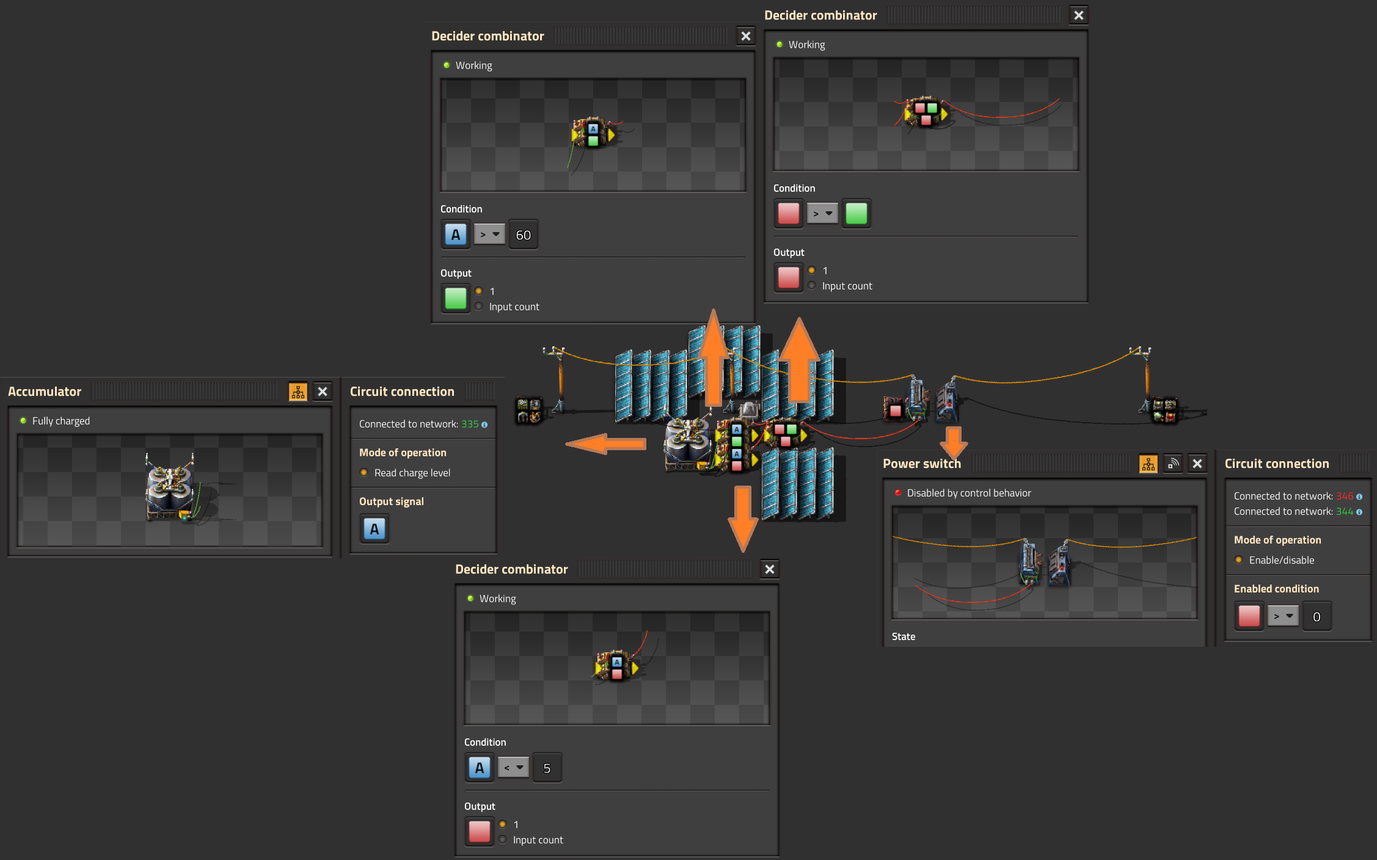
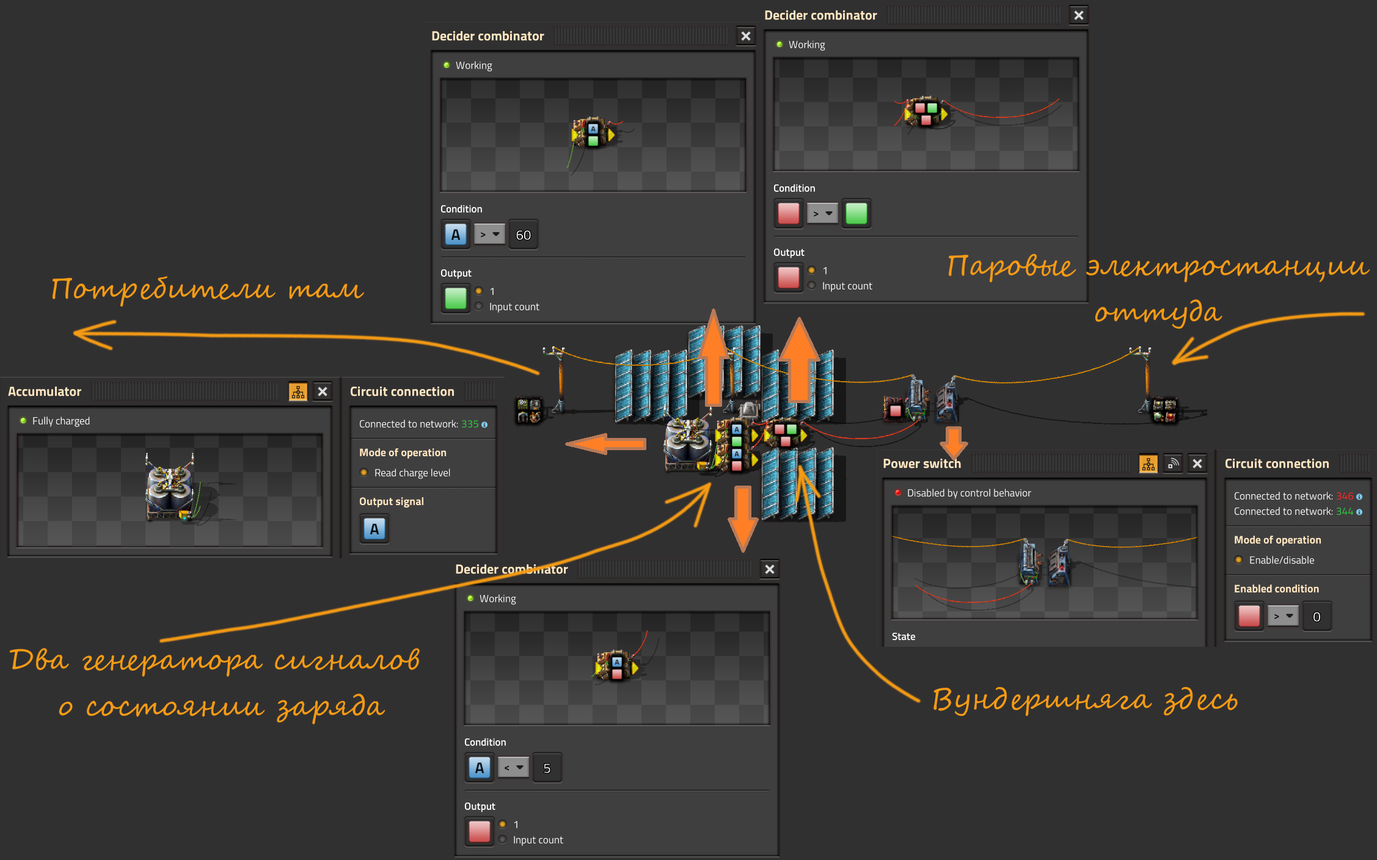
fixed article about backup

diff --git a/website/src/remark/remark-factorio-icons.ts b/website/src/remark/remark-factorio-icons.ts
@@ -164,7 +164,9 @@ const IconNames: string[] = [
   'Signal 6',
   'Signal 7',
   'Signal 8',
-  'Signal 9'
+  'Signal 9',
+  'Green wire',
+  'Red wire'
 ];
 
 interface Options {

diff --git a/docs/PowerProduction/BackupSteamPower.md b/docs/PowerProduction/BackupSteamPower.md
@@ -1,24 +1,24 @@
 # Переводим паровые и ядерные электростанции в резерв
 
-Паровая энергия, в начале игры, это наше всё. Вменяемые альтернативы появляются только тогда, когда удаётся накопить пару тыщ солнечных панелей и чуть меньше тыщ аккумуляторных блоков. До запуска первого спутника про солнечную энергетику можно вспоминать от случая к случаю не возлагая на неё больших надежд. Но даже если солнечных панелей и хватает чтобы полностью покрыть потребности в электричестве и даже зарядить аккумуляторные блоки, в ночное время всё равно запускается выработка энергии из пара. Почему?
+Паровая энергия, в начале игры, это наше всё. Вменяемые альтернативы появляются только тогда, когда удаётся накопить пару тыщ солнечных панелей и чуть меньше тыщ аккумуляторных блоков. До запуска [первого спутника](../HowToStartNewGame/README.md) про солнечную энергетику можно вспоминать от случая к случаю не возлагая на неё больших надежд. Но даже если солнечных панелей и хватает чтобы полностью покрыть потребности в электричестве и даже зарядить аккумуляторные блоки, в ночное время всё равно запускается выработка энергии из пара. Почему?
 
 :::info На самом деле
 Электроснабжение осуществляется на основании приоритетов, каждый источник энергии имеет свой приоритет. Высший приоритет имеют солнечные панели. Далее следуют паровые двигатели и паровые турбины. И на последнем месте аккумуляторные блоки. [Пруф](https://wiki.factorio.com/Electric_system).
 
-То есть, даже если ваши аккумуляторные блоки аж искрятся от переизбытка заряда, в ночное время электричество будет производиться из пара, на основании приоритетов. Sad but true.
+То есть, даже если ваши аккумуляторные блоки аж искрятся от переизбытка заряда, в ночное время электричество будет производиться из пара, на основании приоритетов. *Sad but true.*
 :::
 
-Получается, как не крути и как не выкручивайся, хоть всю планету застрой солнечными панелями и аккумуляторными блоками, по ночам, когда мирные жители засыпают, выходят они, которые пьют воду из труб, сжигают уголь прямо с конвейеров и загрязняют окружающую среду. Как быть?
+Получается, как не крути и как не выкручивайся, хоть всю планету застрой солнечными панелями и аккумуляторными блоками, по ночам, когда мирные жители засыпают, выходят они, бойлеры и паровые двигатели, которые пьют воду из труб, сжигают уголь прямо с конвейеров и загрязняют окружающую среду. Как быть?
 
 ## Простой костыль
 
 :::tip Идея
 Снести паровую электростанцию нафиг, чтобы не загрязняла природу своими выбросами по ночам.
 
-А если всё-таки сохранить на случай перебоев в работе солнечной электростанции? Можно соединить аккумуляторный блок красным или зелёным проводом с насосами подающими воду на бойлеры и включать насосы только если заряд на аккумуляторном блоке опускается меньше половины (как вариант).
+А если всё-таки сохранить на случай перебоев в работе солнечной электростанции? Можно соединить какой-нибудь аккумуляторный блок `Accumulator` красным `Red wire` или зелёным `Green wire` сигнальным кабелем с насосами `Offshore pump` подающими воду `Water` на бойлеры `Boiler` и включать насосы только если заряд на аккумуляторном блоке опускается меньше какого-то значения, например 50%.
 :::
 
-Реализация идеи с насосами, проста как всё в мире Factorio:
+Реализация идеи с насосами, проста как всё в мире *Factorio*:
 
 ![Backup steam power](../_images/PowerProduction/BackupSteamPower.03.png)
 
@@ -28,27 +28,37 @@
[1 lines of base64/hex data omitted]
 ```
 
-К сожалению, костыль так себе, хотя и подходит для паровых электростанций. При увеличении количества аккумуляторных блоков, нужно уменьшать параметр срабатывания (ручками, на каждом насосе). Также электростанция останавливается и запускается не сразу, нужно время на растопку и на выпаривание всей залитой уже воды. В общем, возни много. А для ядерных электростанций этот подход сравним появлению пятой ноги у тягловой кляче. Как же по-человечески перевести паровые и атомные электростанции в резерв?
+К сожалению, костыль так себе, хотя и подходит для паровых электростанций. При увеличении количества аккумуляторных блоков, нужно уменьшать параметр срабатывания (ручками, на каждом насосе). Также электростанция останавливается и запускается не сразу, нужно время на растопку и на выпаривание всей залитой уже воды. В общем, возни много. А для ядерных электростанций этот подход сравним появлению пятой ноги у тягловой клячи. Как же по-человечески перевести паровые и атомные электростанции в резерв?
 
 ## Нудная теория
 
-Пойдём сложным путём, нужно рассмотреть одну `вундершнягу`, которая называется то ли `триггер`, то ли `ячейка памяти`, то ли ещё как-то, суть явления не в названии. Нам потребуется сравнивающий комбинатор `Decider combinator`, и если у него замкнуть выход на вход, то это уже вундершняга. Что это даёт? А даёт это то, что любой сигнал, при определенном правильном условии на комбинаторе, можно повторить и запомнить. Причем такой комбинатор может запоминать и повторять множество сигналов, а не только один. Главное чтобы выход (Ouput) был установлен в единицу. Соответственно, такой комбинатор, можно использовать для включения и отключения разного рода электростанций, паровых и ядерных, при помощи выключателя питания `Power switch`.
+Пойдём сложным путём, нужно рассмотреть одну `вундершнягу`, которая называется то ли *триггер*, то ли *ячейка памяти*, то ли ещё как-то, суть явления не в названии. Нам потребуется сравнивающий комбинатор `Decider combinator`, и если у него замкнуть выход на вход сигнальным кабелем, то это уже `вундершняга`. Что это даёт? А даёт это то, что любой сигнал, при определенном правильном условии на комбинаторе, можно повторить и запомнить. Причем такая `вундершняга` может запоминать и повторять множество сигналов, а не только один. Главное чтобы выход (Ouput) был установлен в единицу. Соответственно, такой комбинатор, можно использовать для включения и отключения разного рода электростанций, паровых и ядерных, при помощи выключателя питания `Power switch`.
 
-## С теорией всё
+## С теорией всё, начинаем творить
 
 Предлагаю собственно чертёж `вундершняги`, которая совместно с другими комбинаторами управляет работой выключателя питания.
 
 ![Backup steam power](../_images/PowerProduction/BackupSteamPower.02.png)
 
-Справа у нас находится некая воображаемая электростанция, показанная иконками на постоянном комбинаторе `Constant combinator`. Соответственно, слева, вместе с воображаемыми солнечными панелями `Solar panel` и аккумуляторными блоками `Accumulator` находятся воображаемые потребители электроэнергии (тоже иконки), которые нещадно разряжают аккумуляторные блоки (один в центре). Когда заряд аккумуляторного блока опускается ниже 5-ти процентов включается выключатель питания, а когда заряд аккумуляторного блока поднимается более 60-ти процентов, выключается. За это отвечают два сравнивающих комбинатора, к которым подключен аккумуляторный блок. Постоянный комбинатор рядом с выключателем питания нужен для того, чтобы выключатель питания работал постоянно, без учёта чего там вундершняга по напридумывает. Его можно убрать без ущерба для всех.
-
 ```blueprint
[1 lines of base64/hex data omitted]
 ```
 
-## Ссылка на первоисточник
+Справа (за изображением) у нас находится некая воображаемая паровая электростанция, показанная иконками на постоянном комбинаторе `Constant combinator`, который рядом с опорой ЛЭП `Small electric pole`. Соответственно, слева (тоже за изображением) вместе с воображаемыми солнечными панелями `Solar panel` и аккумуляторными блоками `Accumulator` находятся воображаемые потребители электроэнергии показанные иконками на постоянном комбинаторе и которые нещадно разряжают аккумуляторные блоки. Один такой аккумуляторный блок находится в центре изображения, с него и считываем данные о количестве зарядки всех аккумуляторных блоков. Аккумуляторные блоки разряжаются равномерно, это важно.
 
-[Factorio tutorial](https://wiki.factorio.com/Tutorial:Circuit_network_cookbook#Backup_steam_example)
+:::info Главная фича
+Cолнечная электростанция находится в одной электрической сети с потребителями, а паровые электростанции в другой электрической сети. Паровые электростанции отделены от потребителей и солнечной электростанции выключателем питания. Если заряд аккумуляторных блоков падает ниже какого-то значения (5%), то значить у нас нехватка электричества в сети потребителей и нужна подпитка от паровых электростанций. В этом случае нужно включать выключатель питания и подключать паровые электростанции к генерации электричества. Если же заряд аккумуляторных блоков поднимается выше какого-то значения (60%), то значить у нас с электричеством всё в порядке и подпитка от паровых электростанций не нужна. В этом случае нужно выключать выключатель питания и отсоединять паровые электростанции. Означенными процентными значениями можно баловаться как душеньке угодно.
+:::
+
+Рядом с аккумуляторным блоком имеются два сравнивающих комбинатора `Decider combinator`, выполняющие роль генератора сигналов. В зависимости от уровня заряда на аккумуляторном блоке, они подают сигналы в логическую сеть. Когда заряд аккумуляторного блока опускается сильно низко в сеть отправляется сигнал квасного квадрата, сопоставимого с низким уровнем заряда. А когда заряд аккумуляторного блока возвращается к нормальному состоянию в сеть отправляется сигнал зелёного квадрата, сопоставимого с высоким уровнем заряда.
+
+Эти сигналы подаются на вход `вундершняги`, которая управляет выключателем питания `Power switch` в зависимости от того, какой сигнал пришел последним. Да, `вундершняга` типа всё помнит и если последним сигналом был сигнал красного квадрата, она "включает" выключатель питания и начинается забор электричества от паровой электростанции для зарядки аккумуляторных блоков. Если последним сигналом был сигнал зелёного квадрата, то выключатель питания отключается и зарядка аккумуляторных блоков от паровой электростанции прекращается.
+
+Ещё можно увидеть постоянный комбинатор `Constant combinator` рядом с выключателем питания `Power switch`. Он нужен для того, чтобы выключатель питания работал постоянно, без учёта чего там `вундершняга` понапридумывает. Через него можно управлять выключателем питания в ручную и его можно убрать с чертежа без ущерба для всех.
+
+[Взято отсюда](https://wiki.factorio.com/Tutorial:Circuit_network_cookbook#Backup_steam_example)
+
+Вот собственно и всё. Мы получили чертёж, который позволяет отключать паровые электростанции, если аккумуляторные блоки заряжены и включать паровые электростанции, если аккумуляторные блоки разряжены.
 
 ## Больше подробностей
 
